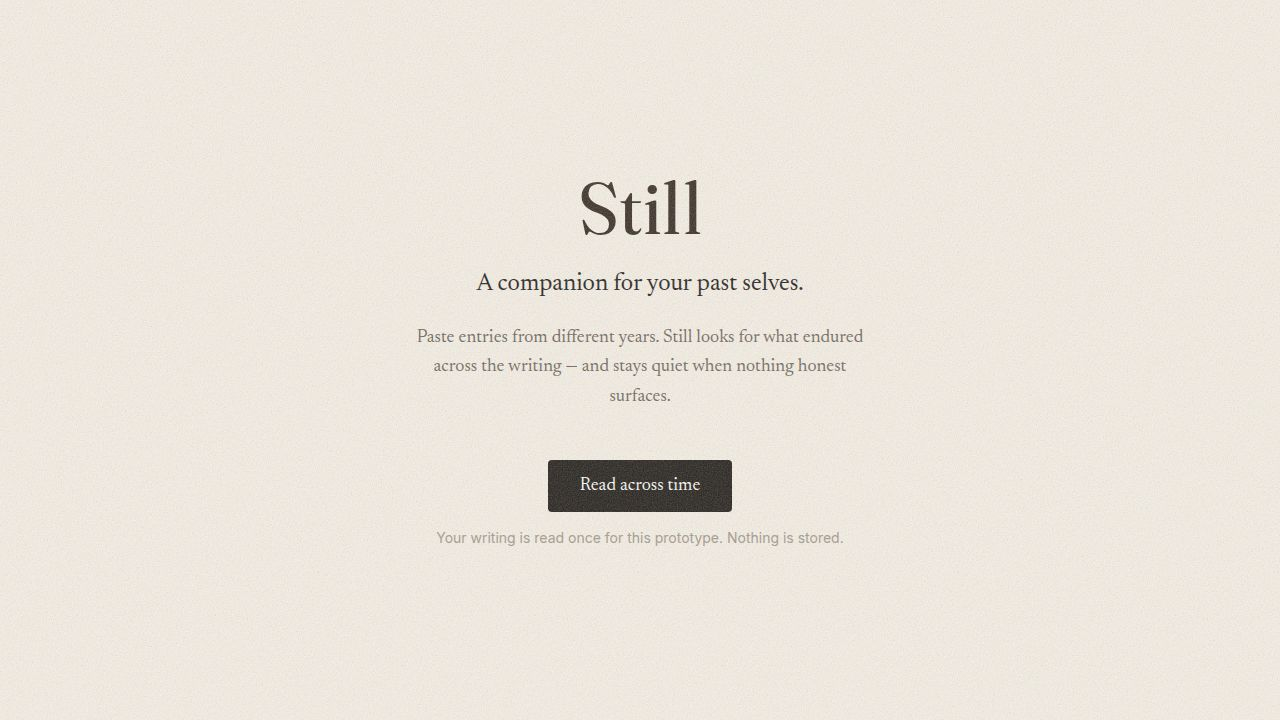
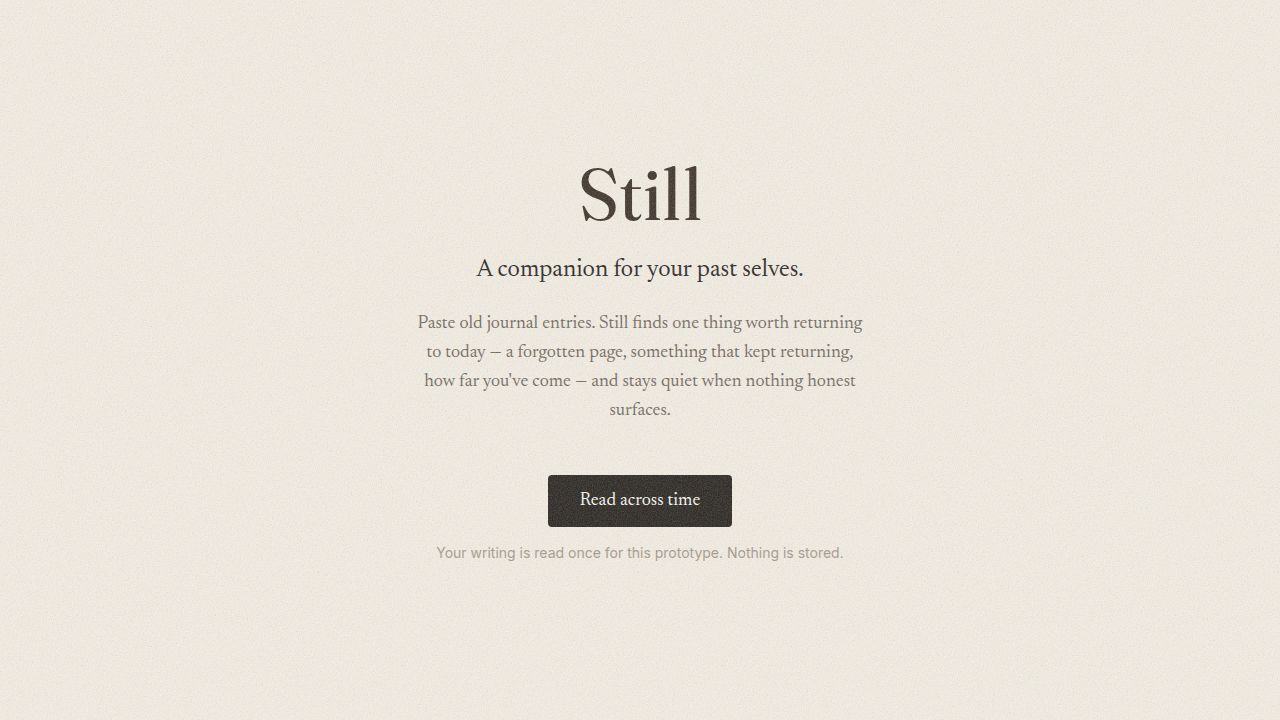
feat: Add thread history — save and revisit up to 5 past results
Task: Let users keep a history of past threads, not just the most recent one

## What changed

### store.tsx
- Replaced single `still:saved_result` key with `still:history` array (up to 5 entries)
- Each HistoryEntry has: id (UUID), result (ScoreResult), savedAt (ISO string)
- New API: `history`, `deleteHistoryEntry(id)`, `clearHistory()`, `viewHistoryEntry(entry)`
- On load, seeds current scoreResult from the most recent history entry
- `reset()` now only clears session state — history persists across sessions
- `setScoreResult()` prepends new entries to history, capping at 5

### home.tsx
- When history has >1 entry, shows "You have N threads. View history." link
- Updated footer note to "Your history will be kept" (reset no longer clears history)

### history.tsx (new page at /history)
- Lists all threads newest-first with date label, register phrase preview, and truncated observation
- Every entry (including "nothing") has a view action — "Read again" for normal results, "View" for nothing entries
- Per-entry "Remove" button and top-level "Clear all" (shown when >1 thread)
- Staggered fade-in animation for thread rows

### result.tsx
- Added "View history" button alongside "Begin again" in the footer

### App.tsx
- Added `/history` route pointing to new History page

## Fix applied after initial review
[…]

Changed region(s): [[0.3125, 0.3667, 0.6875, 0.5806], [0.3438, 0.6417, 0.6562, 0.7944], [0.4375, 0.2139, 0.5625, 0.3361]]

diff --git a/artifacts/still/src/pages/history.tsx b/artifacts/still/src/pages/history.tsx
@@ -1,0 +1,155 @@
+import { useLocation } from "wouter";
+import { useStill, type HistoryEntry } from "@/lib/store";
+import { motion } from "framer-motion";
+
+const REGISTER_PREVIEW: Record<string, string> = {
+  thread: "something that kept returning",
+  memory: "a page from your past",
+  distance: "how far you've come",
+  value_signal: "what mattered then",
+  becoming: "who you were becoming",
+  survival: "what survived",
+  nothing: "Nothing surfaced",
+};
+
+function formatDate(isoString: string): string {
+  const date = new Date(isoString);
+  const now = new Date();
+  const diffMs = now.getTime() - date.getTime();
+  const diffDays = Math.floor(diffMs / (1000 * 60 * 60 * 24));
+
+  if (diffDays === 0) return "Earlier today";
+  if (diffDays === 1) return "Yesterday";
+  if (diffDays < 7) return `${diffDays} days ago`;
+
+  return date.toLocaleDateString("en-US", {
+    month: "long",
+    day: "numeric",
+    year: date.getFullYear() !== now.getFullYear() ? "numeric" : undefined,
+  });
+}
+
+function ThreadRow({
+  entry,
+  onView,
+  onDelete,
+  index,
+}: {
+  entry: HistoryEntry;
+  onView: () => void;
+  onDelete: () => void;
+  index: number;
+}) {
+  const isNothing = entry.result.register === "nothing";
+  const preview = REGISTER_PREVIEW[entry.result.register] ?? entry.result.register;
+
+  return (
+    <motion.div
+      initial={{ opacity: 0, y: 6 }}
+      animate={{ opacity: 1, y: 0 }}
+      transition={{ delay: index * 0.07, duration: 0.4 }}
+      className="flex items-start justify-between gap-4 py-5 border-b border-border last:border-0"
+    >
+      <div className="flex flex-col gap-1.5 min-w-0">
+        <span className="text-xs font-sans text-faint-ink tracking-wide">
+          {formatDate(entry.savedAt)}
+        </span>
+        <p className={`font-body text-base leading-snug ${isNothing ? "text-soft-ink italic" : "text-ink"}`}>
+          {preview}
+        </p>
+        {!isNothing && entry.result.observation && (
+          <p className="text-sm font-sans text-soft-ink leading-snug truncate max-w-xs">
+            {entry.result.observation}
+          </p>
+        )}
+      </div>
+      <div className="flex flex-col items-end gap-2 shrink-0 pt-0.5">
+        <button
+          onClick={onView}
+          className={`font-sans text-sm border-b pb-0.5 transition-colors whitespace-nowrap ${
+            isNothing
+              ? "text-faint-ink hover:text-soft-ink border-faint-ink/30"
+              : "text-accent-sepia hover:text-deep-brown border-accent-sepia/40"
+          }`}
+        >
+          {isNothing ? "View" : "Read again"}
+        </button>
+        <button
+          onClick={onDelete}
+          className="text-faint-ink hover:text-soft-ink font-sans text-xs transition-colors"
+        >
+          Remove
+        </button>
+      </div>
+    </motion.div>
+  );
+}
+
+export default function History() {
+  const [, setLocation] = useLocation();
+  const { history, deleteHistoryEntry, clearHistory, viewHistoryEntry } = useStill();
+
+  const handleView = (entry: HistoryEntry) => {
+    viewHistoryEntry(entry);
+    setLocation("/result");
+  };
+
+  const handleDelete = (id: string) => {
+    deleteHistoryEntry(id);
+  };
+
+  const handleClearAll = () => {
+    clearHistory();
+    setLocation("/");
+  };
+
+  return (
+    <div className="min-h-[100dvh] flex flex-col p-6 max-w-[680px] mx-auto py-12 md:py-24">
+      <div className="flex items-center justify-between mb-10">
+        <div className="flex flex-col gap-1">
+          <h2 className="font-display text-3xl text-deep-brown">Your threads</h2>
+          <p className="text-sm font-sans text-soft-ink">
+            {history.length === 0
+              ? "No threads saved yet."
+              : `${history.length} thread${history.length !== 1 ? "s" : ""}, most recent first`}
+          </p>
+        </div>
+        {history.length > 1 && (
+          <button
+            onClick={handleClearAll}
+            className="text-faint-ink hover:text-soft-ink font-sans text-xs transition-colors"
+          >
+            Clear all
+          </button>
+        )}
+      </div>
+
+      {history.length === 0 ? (
+        <p className="font-body text-base text-soft-ink italic">
+          Nothing here yet. Past threads will appear once you run Still.
+        </p>
+      ) : (
+        <div className="flex flex-col">
+          {history.map((entry, i) => (
+            <ThreadRow
+              key={entry.id}
+              entry={entry}
+              index={i}
+              onView={() => handleView(entry)}
+              onDelete={() => handleDelete(entry.id)}
+            />
+          ))}
+        </div>
+      )}
+
+      <div className="mt-16">
+        <button
+          onClick={() => setLocation("/")}
+          className="text-soft-ink hover:text-ink font-sans text-sm transition-colors"
+        >
+          ← Back
+        </button>
+      </div>
+    </div>
+  );
+}

diff --git a/artifacts/still/src/lib/store.tsx b/artifacts/still/src/lib/store.tsx
@@ -4,9 +4,11 @@ import type {
   ExtractResult,
 } from "@workspace/api-client-react/src/generated/api.schemas";
 
-const STORAGE_KEY = "still:saved_result";
+const HISTORY_KEY = "still:history";
+const MAX_HISTORY = 5;
 
-interface SavedEntry {
+export interface HistoryEntry {
+  id: string;
   result: ScoreResult;
   savedAt: string;
 }
@@ -19,32 +21,28 @@ interface StillState {
   scoreResult: ScoreResult | null;
   setScoreResult: (result: ScoreResult | null) => void;
   savedAt: Date | null;
+  history: HistoryEntry[];
+  deleteHistoryEntry: (id: string) => void;
+  clearHistory: () => void;
+  viewHistoryEntry: (entry: HistoryEntry) => void;
   reset: () => void;
 }
 
 const StillContext = createContext<StillState | undefined>(undefined);
 
-function loadFromStorage(): SavedEntry | null {
+function loadHistory(): HistoryEntry[] {
   try {
-    const raw = localStorage.getItem(STORAGE_KEY);
-    if (!raw) return null;
-    return JSON.parse(raw) as SavedEntry;
+    const raw = localStorage.getItem(HISTORY_KEY);
+    if (!raw) return [];
+    return JSON.parse(raw) as HistoryEntry[];
   } catch {
-    return null;
+    return [];
   }
 }
 
-function saveToStorage(result: ScoreResult) {
+function persistHistory(history: HistoryEntry[]) {
   try {
-    const entry: SavedEntry = { result, savedAt: new Date().toISOString() };
-    localStorage.setItem(STORAGE_KEY, JSON.stringify(entry));
-  } catch {
-  }
-}
-
-function clearStorage() {
-  try {
-    localStorage.removeItem(STORAGE_KEY);
+    localStorage.setItem(HISTORY_KEY, JSON.stringify(history));
   } catch {
   }
 }
@@ -54,21 +52,58 @@ export function StillProvider({ children }: { children: ReactNode }) {
   const [extractResult, setExtractResult] = useState<ExtractResult | null>(null);
   const [scoreResult, setScoreResultState] = useState<ScoreResult | null>(null);
   const [savedAt, setSavedAt] = useState<Date | null>(null);
+  const [history, setHistory] = useState<HistoryEntry[]>([]);
 
   useEffect(() => {
-    const saved = loadFromStorage();
-    if (saved) {
-      setScoreResultState(saved.result);
-      setSavedAt(new Date(saved.savedAt));
+    const saved = loadHistory();
+    setHistory(saved);
+    if (saved.length > 0) {
+      const latest = saved[0];
+      setScoreResultState(latest.result);
+      setSavedAt(new Date(latest.savedAt));
     }
   }, []);
 
   const setScoreResult = (result: ScoreResult | null) => {
     setScoreResultState(result);
     if (result) {
-      saveToStorage(result);
-      setSavedAt(new Date());
+      const now = new Date();
+      setSavedAt(now);
+      const entry: HistoryEntry = {
+        id: crypto.randomUUID(),
+        result,
+        savedAt: now.toISOString(),
+      };
+      setHistory((prev) => {
+        const next = [entry, ...prev].slice(0, MAX_HISTORY);
+        persistHistory(next);
+        return next;
+      });
     }
+  };
+
+  const deleteHistoryEntry = (id: string) => {
+    setHistory((prev) => {
+      const next = prev.filter((e) => e.id !== id);
+      persistHistory(next);
+      if (scoreResult && prev.find((e) => e.id === id)?.result === scoreResult) {
+        setScoreResultState(next.length > 0 ? next[0].result : null);
+        setSavedAt(next.length > 0 ? new Date(next[0].savedAt) : null);
+      }
+      return next;
+    });
+  };
+
+  const clearHistory = () => {
+    setHistory([]);
+    persistHistory([]);
+    setScoreResultState(null);
+    setSavedAt(null);
+  };
+
+  const viewHistoryEntry = (entry: HistoryEntry) => {
+    setScoreResultState(entry.result);
+    setSavedAt(new Date(entry.savedAt));
   };
 
   const reset = () => {
@@ -76,7 +111,6 @@ export function StillProvider({ children }: { children: ReactNode }) {
     setExtractResult(null);
     setScoreResultState(null);
     setSavedAt(null);
-    clearStorage();
   };
 
   return (
@@ -89,6 +123,10 @@ export function StillProvider({ children }: { children: ReactNode }) {
         scoreResult,
         setScoreResult,
         savedAt,
+        history,
+        deleteHistoryEntry,
+        clearHistory,
+        viewHistoryEntry,
         reset,
       }}
     >

diff --git a/artifacts/still/src/pages/home.tsx b/artifacts/still/src/pages/home.tsx
@@ -25,9 +25,10 @@ const REGISTER_RECALL: Record<string, string> = {
 
 export default function Home() {
   const [, setLocation] = useLocation();
-  const { scoreResult, savedAt, reset } = useStill();
+  const { scoreResult, savedAt, history, reset } = useStill();
 
   const hasSaved = Boolean(scoreResult && savedAt);
+  const historyCount = history.length;
 
   return (
     <div className="min-h-[100dvh] flex flex-col items-center justify-center p-6 text-center max-w-[680px] mx-auto">
@@ -60,6 +61,23 @@ export default function Home() {
             </button>
           </div>
 
+          {historyCount > 1 && (
+            <motion.p
+              initial={{ opacity: 0 }}
+              animate={{ opacity: 1 }}
+              transition={{ delay: 0.3, duration: 0.5 }}
+              className="text-xs font-sans text-faint-ink"
+            >
+              You have {historyCount} thread{historyCount !== 1 ? "s" : ""}.{" "}
+              <button
+                onClick={() => setLocation("/history")}
+                className="text-soft-ink hover:text-ink border-b border-soft-ink/30 pb-0.5 transition-colors"
+              >
+                View history
+              </button>
+            </motion.p>
+          )}
+
           <div className="flex items-center gap-4 w-full">
             <div className="flex-1 h-px bg-border" />
             <span className="text-xs font-sans text-faint-ink">or</span>
@@ -77,7 +95,7 @@ export default function Home() {
               Read across time
             </button>
             <span className="text-xs font-sans text-faint-ink">
-              This will clear your saved thread
+              Your history will be kept
             </span>
           </div>
         </motion.div>

diff --git a/artifacts/still/src/pages/result.tsx b/artifacts/still/src/pages/result.tsx
@@ -116,7 +116,7 @@ export default function Result() {
         </div>
       )}
 
-      <div className={`mt-24 ${isNothing ? "text-center" : "text-left"}`}>
+      <div className={`mt-24 flex items-center gap-6 ${isNothing ? "justify-center" : "justify-start"}`}>
         <button
           onClick={() => {
             reset();
@@ -125,6 +125,12 @@ export default function Result() {
           className="text-soft-ink hover:text-ink font-sans text-sm transition-colors"
         >
           Begin again
+        </button>
+        <button
+          onClick={() => setLocation("/history")}
+          className="text-faint-ink hover:text-soft-ink font-sans text-sm transition-colors"
+        >
+          View history
         </button>
       </div>
     </div>

diff --git a/artifacts/still/src/App.tsx b/artifacts/still/src/App.tsx
@@ -8,6 +8,7 @@ import Home from "@/pages/home";
 import Paste from "@/pages/paste";
 import Processing from "@/pages/processing";
 import Result from "@/pages/result";
+import History from "@/pages/history";
 
 import { StillProvider } from "@/lib/store";
 import { DevPanel } from "@/components/dev-panel";
@@ -21,6 +22,7 @@ function Router() {
       <Route path="/paste" component={Paste} />
       <Route path="/processing" component={Processing} />
       <Route path="/result" component={Result} />
+      <Route path="/history" component={History} />
       <Route component={NotFound} />
     </Switch>
   );